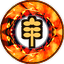
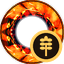
Portaler 1.0.2: lower-right category badge, steady pin sizes
- Category icon as a big round badge in the pin's lower right corner
- No vanilla pulsing; previewed pin is bigger and stays big, hovered pin grows a little
- New settings PinSizePreview / PinSizeHover

Claude-Session: https://claude.ai/code/session_01TaQNmZp8Qu78ZCp4dJDXS3

Changed region(s): [[0.3125, 0.2188, 1.0, 1.0]]

diff --git a/src/PortalClient.cs b/src/PortalClient.cs
@@ -271,6 +271,7 @@ namespace Portaler
             if (_saved && Minimap.instance != null) { MapOffset(Minimap.instance) = _savedOffset; Minimap.instance.LargeZoom = _savedZoom; }
             _saved = false; _moving = false; _returning = false;
             StopGlow();
+            _bigId = ZDOID.None;
             SourceId = ZDOID.None;
             _sourceTransform = null;
             if (closeMap && Minimap.instance != null && Minimap.instance.m_mode == Minimap.MapMode.Large)
@@ -315,6 +316,48 @@ namespace Portaler
         private static PortalInfo _hoverPortal;
         private static float _hoverSince, _leftListAt;
         private static ZDOID _glowId = ZDOID.None;
+        private static ZDOID _bigId = ZDOID.None;
+        private static Canvas _mapCanvas;
+        private static readonly Dictionary<Minimap.PinData, float> PinScale = new Dictionary<Minimap.PinData, float>();
+
+        /// <summary>
+        /// Called after the map placed its pins each frame. Our pins have a steady size:
+        /// the previewed portal is drawn big (and stays big), a pin under the mouse grows a little.
+        /// The size changes smoothly instead of the vanilla pulsing.
+        /// </summary>
+        public static void ScalePins()
+        {
+            var map = Minimap.instance;
+            if (map == null) return;
+            bool large = map.m_mode == Minimap.MapMode.Large;
+            Vector2 mouse = ZInput.pointerPosition;
+            // the map's canvas may use a camera; hit tests need it
+            if (_mapCanvas == null && map.m_pinRootLarge != null) _mapCanvas = map.m_pinRootLarge.GetComponentInParent<Canvas>();
+            Camera cam = _mapCanvas != null && _mapCanvas.renderMode != RenderMode.ScreenSpaceOverlay ? _mapCanvas.worldCamera : null;
+            float k = 1f - Mathf.Exp(-Time.unscaledDeltaTime * 14f);
+            foreach (var kv in Pins)
+            {
+                var pin = kv.Value;
+                if (pin == null || pin.m_uiElement == null) continue;
+                float target = 1f;
+                if (large && Active)
+                {
+                    if (kv.Key == _bigId) target = Plugin.PinSizePreview.Value;
+                    else if (RectTransformUtility.RectangleContainsScreenPoint(pin.m_uiElement, mouse, cam)) target = Plugin.PinSizeHover.Value;
+                }
+                else if (large && RectTransformUtility.RectangleContainsScreenPoint(pin.m_uiElement, mouse, cam)) target = Plugin.PinSizeHover.Value;
+
+                PinScale.TryGetValue(pin, out float cur);
+                if (cur <= 0f) cur = 1f;
+                cur = Mathf.Lerp(cur, target, k);
+                if (Mathf.Abs(cur - target) < 0.005f) cur = target;
+                PinScale[pin] = cur;
+                pin.m_uiElement.localScale = new Vector3(cur, cur, 1f);
+                if (cur > 1.01f) pin.m_uiElement.SetAsLastSibling(); // big pins on top of their neighbours
+                var name = pin.m_NamePinData?.PinNameGameObject;
+                if (name != null) name.transform.localScale = new Vector3(cur, cur, 1f);
+            }
+        }
         private static bool _saved, _returning;
         private static Vector3 _savedOffset, _targetOffset;
         private static float _savedZoom, _targetZoom;
@@ -395,12 +438,11 @@ namespace Portaler
         {
             StopGlow();
             _glowId = id;
-            if (Pins.TryGetValue(id, out var pin) && pin != null) pin.m_animate = true;
+            _bigId = id; // stays big on the map until another portal is previewed or the list closes
         }
 
         private static void StopGlow()
         {
-            if (_glowId != ZDOID.None && Pins.TryGetValue(_glowId, out var pin) && pin != null) pin.m_animate = false;
             _glowId = ZDOID.None;
         }
 
@@ -508,6 +550,7 @@ namespace Portaler
 
             foreach (var pin in Pins.Values) Minimap.instance.RemovePin(pin);
             Pins.Clear();
+            PinScale.Clear();
 
             if (_pinSprite == null) _pinSprite = Art.PinSprite();
             foreach (var p in Portals)
@@ -515,7 +558,6 @@ namespace Portaler
                 var pin = Minimap.instance.AddPin(p.Position, Minimap.PinType.Icon4, p.DisplayName,
                     false, false, 0L, default(Splatform.PlatformUserID));
                 pin.m_icon = Art.PinSprite(p.Category);
-                pin.m_animate = p.Id == _glowId;
                 Pins[p.Id] = pin;
                 OurSprites.Add(pin.m_icon);
             }

diff --git a/src/Plugin.cs b/src/Plugin.cs
@@ -15,7 +15,7 @@ namespace Portaler
     {
         public const string Guid = "nfp007.Portaler";
         public const string Name = "Portaler";
-        public const string Version = "1.0.1";
+        public const string Version = "1.0.2";
 
         internal static Plugin Instance;
         internal static ManualLogSource Log;
@@ -26,7 +26,7 @@ namespace Portaler
         // personal settings (each PC)
         internal static BepInEx.Configuration.ConfigEntry<KeyCode> RenameKey, CategoryKey;
         internal static BepInEx.Configuration.ConfigEntry<bool> HoverShowsMap, HoverReturn, HoverLine;
-        internal static BepInEx.Configuration.ConfigEntry<float> HoverDelay, HoverZoomMeters, HoverReturnDelay;
+        internal static BepInEx.Configuration.ConfigEntry<float> HoverDelay, HoverZoomMeters, HoverReturnDelay, PinSizePreview, PinSizeHover;
 
         private Harmony _harmony;
 
@@ -48,6 +48,8 @@ namespace Portaler
             HoverZoomMeters = Config.Bind("Map", "HoverZoomMeters", 1500f, "How much of the world the map shows around the portal (metres). The map only zooms in, never out.");
             HoverReturn = Config.Bind("Map", "HoverReturn", true, "When the mouse leaves the list, the map glides back to where it was (unless you move or zoom the map yourself).");
             HoverReturnDelay = Config.Bind("Map", "HoverReturnDelay", 5f, "Seconds the map stays on the previewed portal after the mouse leaves the list.");
+            PinSizePreview = Config.Bind("Map", "PinSizePreview", 1.6f, "Size of the previewed portal's pin on the map (1 = normal). It stays this big until you preview another portal or close the list.");
+            PinSizeHover = Config.Bind("Map", "PinSizeHover", 1.3f, "Size of a portal pin while the mouse is over it on the map (1 = normal).");
             HoverLine = Config.Bind("Map", "HoverLine", true, "Draw a fiery line from the portal you stand in to the previewed portal.");
             _harmony = new Harmony(Guid);
             _harmony.PatchAll(typeof(Plugin).Assembly);

diff --git a/tools/make_art.py b/tools/make_art.py
@@ -13,21 +13,20 @@ for key, _ in CATS:
     draw(key, 64).save(os.path.join(ART, f'cat_{key}.png'))
 
 def pin(key):
-    """Ring pin; with a category the icon sits big in the ring's open centre (readable on the map)."""
+    """Ring pin; with a category a big round badge sits in the lower right corner."""
     S = 64  # same size as the plain ring, so pins keep their size on the map
     im = Image.new('RGBA', (S, S), (0, 0, 0, 0))
     im.alpha_composite(ring, (0, 0))
     if key:
-        size = 34
-        icon = draw(key, size)
-        # dark outline around the icon so it stands out on any map colour
-        a = icon.getchannel('A')
-        from PIL import ImageFilter
-        halo = Image.new('RGBA', (size, size), (20, 10, 4, 255))
-        halo.putalpha(a.filter(ImageFilter.MaxFilter(5)))
-        x = (S - size) // 2
-        im.alpha_composite(halo, (x, x))
-        im.alpha_composite(icon, (x, x))
+        D = 36           # badge diameter (more than half the pin, readable at map size)
+        big = 4          # supersample the badge circle
+        b = Image.new('RGBA', (D * big, D * big), (0, 0, 0, 0))
+        d = ImageDraw.Draw(b)
+        d.ellipse([2 * big, 2 * big, (D - 2) * big, (D - 2) * big], fill=(30, 20, 12, 255), outline=(255, 200, 90, 255), width=3 * big)
+        b = b.resize((D, D), Image.LANCZOS)
+        icon = draw(key, 24)
+        b.alpha_composite(icon, ((D - 24) // 2, (D - 24) // 2))
+        im.alpha_composite(b, (S - D, S - D))
     return im
 
 pin(None).save(os.path.join(ART, 'pin_none.png'))

diff --git a/src/Patches.cs b/src/Patches.cs
@@ -140,7 +140,11 @@ namespace Portaler
         [HarmonyPatch(typeof(Minimap), "UpdatePins")]
         private static class Minimap_UpdatePins
         {
-            private static void Postfix() => PortalClient.HideForeignPins();
+            private static void Postfix()
+            {
+                PortalClient.HideForeignPins();
+                PortalClient.ScalePins();
+            }
         }
     
         /// <summary>While typing in the search box the game must not react to keys (walking, map, chat...).</summary>

diff --git a/README.md b/README.md
@@ -24,7 +24,7 @@ Every feature says what is **🌐 shared** (the same for everybody on the server
 - 🌐 Shared: the list of portals (everybody sees every portal).
 
 **2. Map preview**
-- Rest the mouse on a name: the map glides to that portal, its pin glows, and a soft fiery line flows from your portal to it.
+- Rest the mouse on a name: the map glides to that portal, its pin gets bigger, and a soft fiery line flows from your portal to it.
 - The map stays there 5 seconds after the mouse leaves the list, then glides back. Move or zoom the map yourself and it stays where you put it.
 - 👤 Personal: only your own map moves. Timing, zoom and the line can be changed in your config.
 
@@ -68,7 +68,8 @@ Every feature says what is **🌐 shared** (the same for everybody on the server
 - 🌐 Shared: portal names (anyone can rename any portal).
 
 **10. Map pins**
-- Every portal gets a fiery ring pin with its name, and its category icon inside the ring.
+- Every portal gets a fiery ring pin with its name, and its category icon in a round badge at the lower right.
+- The previewed portal's pin is drawn bigger and stays big; a pin under the mouse grows a little, so icon and name are easy to read.
 - Pins from other mods (for example automatic pin mods) that sit on a portal are hidden, so each portal shows just one icon.
 - 🌐 Shared: everybody sees the same pins, names and icons.
 
@@ -117,6 +118,8 @@ Config file: `BepInEx/config/nfp007.Portaler.cfg` (created on first start). `[Se
 | `[Map] HoverReturn` | `true` | When the mouse leaves the list, the map glides back to where it was (not if you moved or zoomed the map yourself). |
 | `[Map] HoverReturnDelay` | `5` | Seconds the map stays on the previewed portal before gliding back. |
 | `[Map] HoverLine` | `true` | Draw the fiery line from your portal to the previewed one. |
+| `[Map] PinSizePreview` | `1.6` | Size of the previewed portal's pin (1 = normal). Stays until you preview another portal or close the list. |
+| `[Map] PinSizeHover` | `1.3` | Size of a portal pin while the mouse is over it on the map. |
 | `[Server] VanillaRestrictions` | `false` | `false` = no restrictions, everything travels through every portal. `true` = the game's own rules: no metals/ores through the wooden portal, and the world modifiers "no portals" and "no portals during boss fights" apply. |
 
 Everything else is set from inside the game:

diff --git a/package/Portaler/README.md b/package/Portaler/README.md
@@ -24,7 +24,7 @@ Every feature says what is **🌐 shared** (the same for everybody on the server
 - 🌐 Shared: the list of portals (everybody sees every portal).
 
 **2. Map preview**
-- Rest the mouse on a name: the map glides to that portal, its pin glows, and a soft fiery line flows from your portal to it.
+- Rest the mouse on a name: the map glides to that portal, its pin gets bigger, and a soft fiery line flows from your portal to it.
 - The map stays there 5 seconds after the mouse leaves the list, then glides back. Move or zoom the map yourself and it stays where you put it.
 - 👤 Personal: only your own map moves. Timing, zoom and the line can be changed in your config.
 
@@ -68,7 +68,8 @@ Every feature says what is **🌐 shared** (the same for everybody on the server
 - 🌐 Shared: portal names (anyone can rename any portal).
 
 **10. Map pins**
-- Every portal gets a fiery ring pin with its name, and its category icon inside the ring.
+- Every portal gets a fiery ring pin with its name, and its category icon in a round badge at the lower right.
+- The previewed portal's pin is drawn bigger and stays big; a pin under the mouse grows a little, so icon and name are easy to read.
 - Pins from other mods (for example automatic pin mods) that sit on a portal are hidden, so each portal shows just one icon.
 - 🌐 Shared: everybody sees the same pins, names and icons.
 
@@ -117,6 +118,8 @@ Config file: `BepInEx/config/nfp007.Portaler.cfg` (created on first start). `[Se
 | `[Map] HoverReturn` | `true` | When the mouse leaves the list, the map glides back to where it was (not if you moved or zoomed the map yourself). |
 | `[Map] HoverReturnDelay` | `5` | Seconds the map stays on the previewed portal before gliding back. |
 | `[Map] HoverLine` | `true` | Draw the fiery line from your portal to the previewed one. |
+| `[Map] PinSizePreview` | `1.6` | Size of the previewed portal's pin (1 = normal). Stays until you preview another portal or close the list. |
+| `[Map] PinSizeHover` | `1.3` | Size of a portal pin while the mouse is over it on the map. |
 | `[Server] VanillaRestrictions` | `false` | `false` = no restrictions, everything travels through every portal. `true` = the game's own rules: no metals/ores through the wooden portal, and the world modifiers "no portals" and "no portals during boss fights" apply. |
 
 Everything else is set from inside the game:

diff --git a/CHANGELOG.md b/CHANGELOG.md
@@ -1,5 +1,10 @@
 # Changelog
 
+## 1.0.2
+- Category icon back in the lower right corner of the map pin, as a big round badge.
+- Steady pin sizes: no more pulsing. The previewed portal's pin is bigger and stays big; a pin under the mouse grows a little.
+- New settings: `PinSizePreview`, `PinSizeHover`.
+
 ## 1.0.1
 - Category icon now sits big inside the portal ring on the map (was too small to see).
 - Map preview: a soft fiery line flows from your portal to the previewed one.

diff --git a/package/Portaler/CHANGELOG.md b/package/Portaler/CHANGELOG.md
@@ -1,5 +1,10 @@
 # Changelog
 
+## 1.0.2
+- Category icon back in the lower right corner of the map pin, as a big round badge.
+- Steady pin sizes: no more pulsing. The previewed portal's pin is bigger and stays big; a pin under the mouse grows a little.
+- New settings: `PinSizePreview`, `PinSizeHover`.
+
 ## 1.0.1
 - Category icon now sits big inside the portal ring on the map (was too small to see).
 - Map preview: a soft fiery line flows from your portal to the previewed one.
